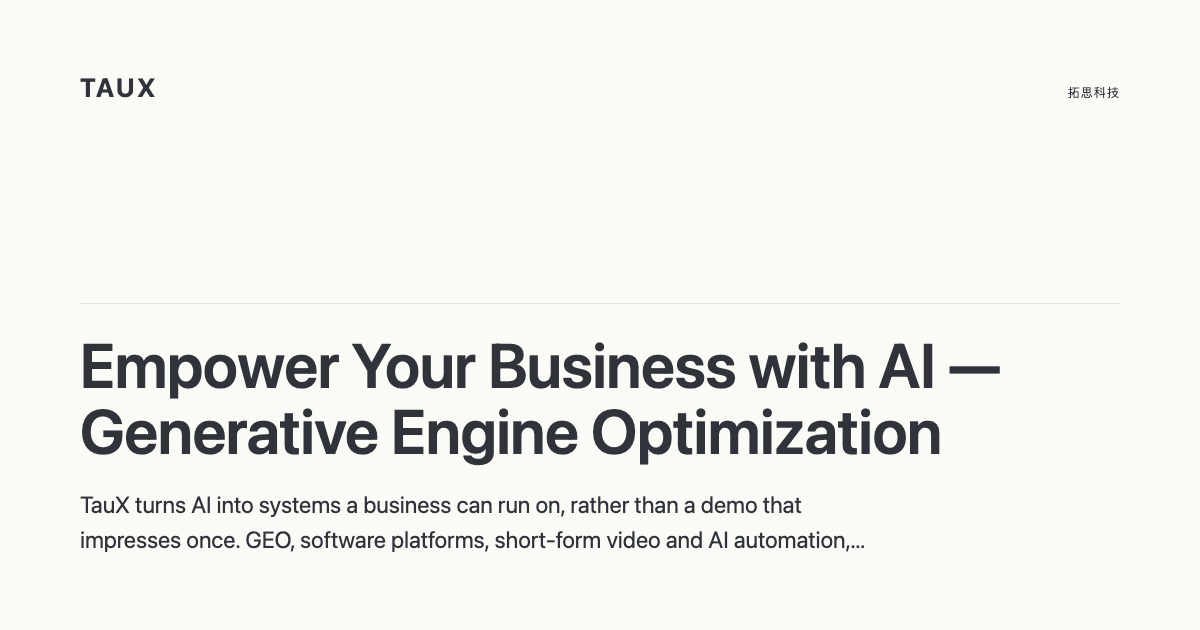
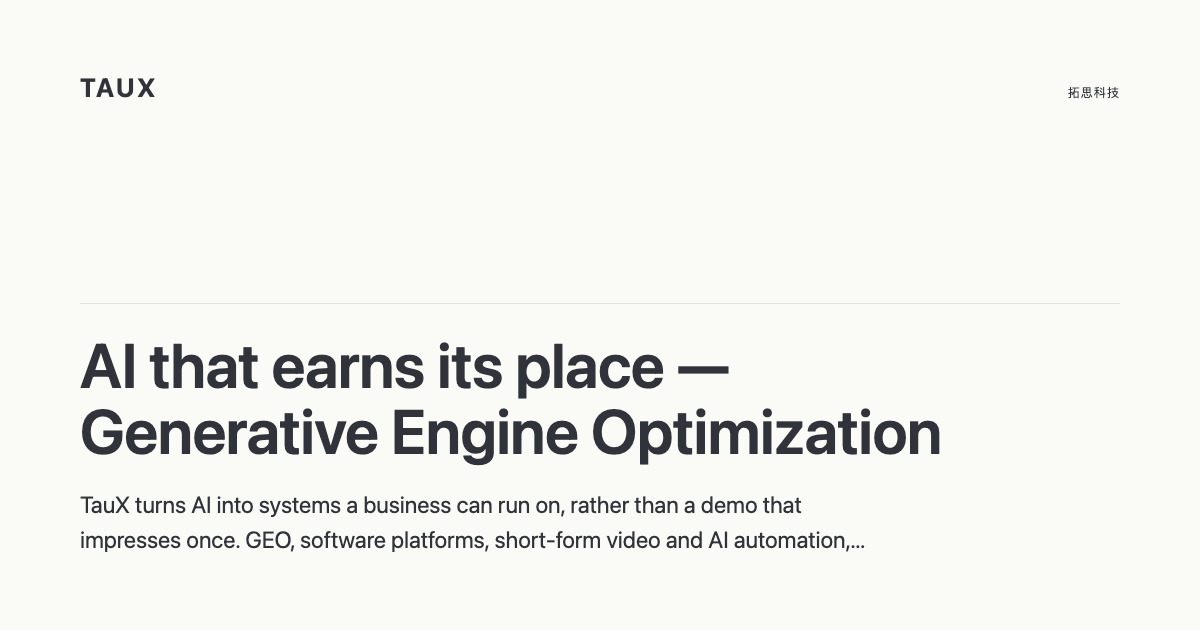
fix: 另外四個 locale 的語氣，以及 Empower 藏在三個地方
用各 locale 自己的標記詞掃過，23 處候選全部是真的違規——對比中文那輪 42 個裡
34 個誤報。差別在判準：中文那組含「最好／最快／首選」這種技術散文也會用的字，
這四組是純行銷詞彙。命中率從 19% 變成 100%。

分佈跟中文完全一致，集中在同樣四頁：

  en-US        3 處   about + index
  ja-JP        2 處   about
  ko-KR        2 處   about
  zh-Hans-CN  16 處   about + ai-smart-work + data-governance + index

技術指南頁 15 頁，四個 locale 加起來 0 處違規。規範那句「本站 15 頁是技術指南，
落在 factual／scientific 那一格」在五個 locale 上都成立，而它從來沒涵蓋另外五頁。

Empower 不只在 H1。清乾淨之後才發現它藏在三個地方：

  模板的 display-lead      8 處（五個 locale 的 index 與 about）
  JSON-LD 的 name          5 處（搜尋結果與 AI 引用看到的字串）
  site.toml 的 title       4 處（<title> 與 OG 卡的標題來源）

最後一項讓 100 張分享卡要重生。改 H1 而不改 site.toml，會讓頁面上的標題和分享
出去的標題是兩句不同的話。

en-US 的 about 與 index 正文本來就寫得好——「Our job is to move brands from
ranking in a list to being the answer」是具體主張不是宣言腔，「how long a system
takes to respond to a change and settle」是事實。只有標題要改。

zh-Hans-CN 是中文的逐字翻譯，連「任督二脈」都翻過去了，所以照中文定稿翻回來。

日韓的 about 標題「私たちの使命／우리의 사명」保留。中文版的對應標題是「核心
使命」，當時判斷標題不動——五個 locale 保持同一個決定。

⚠ 韓文 ledger 從 325 個引號變 323：改寫拿掉了 '답변 컨테이너' 那對引號。
   跑過 npm run ko:record 重記。

四個 locale 各截一張圖對讀過。

驗證：十二道閘門全綠，100 張卡重生後 cards 0 failing。

Claude-Session: https://claude.ai/code/session_01JUmS2Ks4Kz9V63H9wo6wv9

Changed region(s): [[0.0617, 0.5429, 0.8325, 0.6333]]

diff --git a/templates/zh-Hans-CN/about.html b/templates/zh-Hans-CN/about.html
@@ -45,11 +45,11 @@
                  measured width differs by machine and an unforced break lands
                  somewhere different on each. This line is shorter and fits on
                  one at every width the geometry gate walks. -->
-            <span class="display-lead">Empowering Business with AI</span>
-            <span class="display-sub">我们把 AI 变成企业真正的战力</span>
+            <span class="display-lead">A technology company in Kaohsiung</span>
+            <span class="display-sub">做 GEO 与企业 AI 导入的技术公司</span>
         </h1>
         <p class="text-xl max-w-[42ch] leading-relaxed mb-6">
-            TauX 拓思科技专注于 GEO (生成式引擎优化) 与 AI 智能解决方案。我们结合高雄在地的深厚根基与国际级的技术视野，协助企业在 AI 时代抢占先机。
+            TauX 拓思科技做 GEO（生成式引擎优化）与企业 AI 导入，公司设在高雄冈山。
         </p>
         <p class="text-sm max-w-[42ch] leading-relaxed font-sans">
             我们的名字源自希腊字母 <strong class="font-sans">τ</strong>（Tau，在控制科学与物理学中代表<strong>时间常数 Time Constant</strong>，表征系统响应外界变化并过渡至全新稳定状态的关键时间）。TauX 致力于优化企业迎战 AI 浪潮的「时间常数」，加速系统性的智能跃迁。
@@ -69,7 +69,7 @@
                 </h2>
                 </div>
                 <p class="leading-relaxed">
-                    在 Generative AI 重塑网络流量的时代，我们的使命是协助品牌从传统 SEO 转型至 GEO。透过独家的「答案容器」技术，让您的内容被 AI 优先读取与引用。
+                    生成式引擎不回传一份链接清单，它回传一段答案。要成为那段答案的来源，和排进十条蓝色链接是两件不同的工作。
                 </p>
             </div>
             <div class="border-t border-line pt-8">
@@ -80,7 +80,7 @@
                 </h2>
                 </div>
                 <p class="leading-relaxed">
-                    我们采用 Go (Golang) 构建高性能后端，并以现代化前端技术打造极致的用户体验。从数据治理到自动化 Agent，我们提供全方位的技术后盾。
+                    后端写 Go，前端不套框架的预设样式。做的范围从数据治理到自动化 agent。
                 </p>
             </div>
         </div>

diff --git a/templates/zh-Hans-CN/index.html b/templates/zh-Hans-CN/index.html
@@ -11,7 +11,7 @@
     {
       "@type": "WebPage",
       "@id": "https://taux.io/zh-Hans-CN#webpage",
-      "name": "拓思科技股份有限公司｜TauX - Empower Your Business with AI｜GEO 生成式引擎优化",
+      "name": "拓思科技股份有限公司｜TauX - AI that earns its place｜GEO 生成式引擎优化",
       "description": "TauX 协助企业把 AI 变成能用的系统，而不是一场展示，提供 GEO 生成式引擎优化与技术开发服务。",
       "url": "https://taux.io/zh-Hans-CN",
       "isPartOf": {"@id": "https://taux.io/#website"},
@@ -36,7 +36,7 @@
                  unforced break lands in a different place on each. Breaking
                  before "with AI" also puts the only content word in the
                  sentence on a line of its own. -->
-            <span class="display-lead">Empower Your Business<br>with AI</span>
+            <span class="display-lead">AI that earns<br>its place</span>
             <span class="display-sub">把 AI 变成公司真正用得上的能力</span>
         </h1>
 
@@ -47,7 +47,7 @@
             </p>
 
             <p class="text-sm leading-relaxed max-w-prose" itemprop="description">
-                我们的名字源自希腊字母 <span class="font-sans">&tau;</span>（Tau，在物理学与控制工程中代表<strong class="font-normal">时间常数 Time Constant</strong>，象征系统对外部变革的响应速度与回归稳定的效率）。TauX 致力于协助企业优化其面对 AI 浪潮的时间常数，以最敏捷、沉稳的姿态完成数智化跃迁。
+                我们的名字源自希腊字母 <span class="font-sans">&tau;</span>（Tau，在物理学与控制工程中代表<strong class="font-normal">时间常数 Time Constant</strong>，象征系统对外部变革的响应速度与回归稳定的效率）。导入 AI 也有这个常数，而缩短它就是我们在做的事。
             </p>
         </div>
 

diff --git a/templates/ja-JP/about.html b/templates/ja-JP/about.html
@@ -45,7 +45,7 @@
                  Chinese has no upper case; the same holds for Japanese, so
                  `heading structure` asks this locale for a `display-sub`
                  (decision #56). -->
-            <span class="display-lead">Empowering Business with AI</span>
+            <span class="display-lead">A technology company in Kaohsiung</span>
             <span class="display-sub">AI を、企業が本当に使える力に</span>
         </h1>
         <p class="text-xl max-w-[42ch] leading-relaxed mb-6">
@@ -69,7 +69,7 @@
                 </h2>
                 </div>
                 <p class="leading-relaxed">
-                    生成 AI がウェブの流入を組み替えつつある今、私たちの使命はブランドを従来の SEO から GEO へ移すことです。独自の「回答コンテナ」技術によって、御社のコンテンツが AI に優先して読まれ、引用されるようにします。
+                    生成エンジンはリンクの一覧を返しません。ひとつの答えを返します。その答えの出典になることと、青いリンク十本の中に並ぶことは、別の仕事です。
                 </p>
             </div>
             <div class="border-t border-line pt-8">

diff --git a/templates/ko-KR/about.html b/templates/ko-KR/about.html
@@ -43,7 +43,7 @@
             <!-- Hangul has no upper case either, so decision #6's reason for
                  the two-line h1 holds here as it does for the CJK locales and
                  not for English (decision #56). -->
-            <span class="display-lead">Empowering Business with AI</span>
+            <span class="display-lead">A technology company in Kaohsiung</span>
             <span class="display-sub">AI를 기업이 실제로 쓸 수 있는 힘으로</span>
         </h1>
         <p class="text-xl max-w-[42ch] leading-relaxed mb-6">
@@ -67,7 +67,7 @@
                 </h2>
                 </div>
                 <p class="leading-relaxed">
-                    생성형 AI가 웹 트래픽을 다시 짜고 있는 지금, 우리의 사명은 브랜드를 기존 SEO에서 GEO로 옮기는 것입니다. 자체 '답변 컨테이너' 기술로 귀사의 콘텐츠가 AI에 먼저 읽히고 인용되도록 만듭니다.
+                    생성형 엔진은 링크 목록을 돌려주지 않습니다. 하나의 답을 돌려줍니다. 그 답의 출처가 되는 일과, 파란 링크 열 개 안에 드는 일은 서로 다른 작업입니다.
                 </p>
             </div>
             <div class="border-t border-line pt-8">

diff --git a/templates/zh-Hans-CN/ai-smart-work.html b/templates/zh-Hans-CN/ai-smart-work.html
@@ -56,7 +56,7 @@
         </h1>
 
                 <p class="text-lg leading-relaxed max-w-prose mb-10">
-                    从「人工智能」进化到「数智化」思维。我们协助企业与个人打造专属的 AI 数智化助理 (Gem)，让 AI 不只是工具，而是你的最强大脑。
+                    这页讲的是问法，以及怎么把一组问法固定成一个可重复用的助理（Gem）。内训做的就是这件事。
                 </p>
 
                 <a href="mailto:hello@taux.io" class="btn">
@@ -249,7 +249,7 @@
                         <span class="display-sub">懂得问，AI才会答；懂得想，AI才能帮</span>
                     </h2>
                 </div>
-                <p class="text-lg mb-10 max-w-prose mx-auto">不要只是工作，要「数智化」你的工作。立即联系我们，构建您的 AI 竞争力。</p>
+                <p class="text-lg mb-10 max-w-prose mx-auto">同一个问题换个问法，答案的可用度差很多。想把它变成团队的共同做法，那是另一件事——可以聊。</p>
                 <a href="mailto:hello@taux.io" class="btn">
                     开始咨询
                 </a>

diff --git a/templates/ko-KR/index.html b/templates/ko-KR/index.html
@@ -11,7 +11,7 @@
     {
       "@type": "WebPage",
       "@id": "https://taux.io/ko-KR#webpage",
-      "name": "拓思科技股份有限公司｜TauX - Empower Your Business with AI｜GEO 생성형 엔진 최적화",
+      "name": "拓思科技股份有限公司｜TauX - AI that earns its place｜GEO 생성형 엔진 최적화",
       "description": "TauX는 AI를 한 번 보여 주는 데모가 아니라 기업이 실제로 굴릴 수 있는 시스템으로 바꿉니다. GEO 생성형 엔진 최적화와 기술 개발을 합니다.",
       "url": "https://taux.io/ko-KR",
       "isPartOf": {"@id": "https://taux.io/#website"},
@@ -36,7 +36,7 @@
                  unforced break lands in a different place on each. Breaking
                  before "with AI" also puts the only content word in the
                  sentence on a line of its own. -->
-            <span class="display-lead">Empower Your Business<br>with AI</span>
+            <span class="display-lead">AI that earns<br>its place</span>
             <span class="display-sub">AI를 회사가 진짜 쓸 수 있는 힘으로</span>
         </h1>
 

diff --git a/templates/ja-JP/index.html b/templates/ja-JP/index.html
@@ -11,7 +11,7 @@
     {
       "@type": "WebPage",
       "@id": "https://taux.io/ja-JP#webpage",
-      "name": "拓思科技股份有限公司｜TauX - Empower Your Business with AI｜GEO 生成エンジン最適化",
+      "name": "拓思科技股份有限公司｜TauX - AI that earns its place｜GEO 生成エンジン最適化",
       "description": "TauX は AI を、一度きりのデモではなく企業が実際に運用できるシステムに変えます。GEO 生成エンジン最適化と技術開発を手がけています。",
       "url": "https://taux.io/ja-JP",
       "isPartOf": {"@id": "https://taux.io/#website"},
@@ -36,7 +36,7 @@
                  unforced break lands in a different place on each. Breaking
                  before "with AI" also puts the only content word in the
                  sentence on a line of its own. -->
-            <span class="display-lead">Empower Your Business<br>with AI</span>
+            <span class="display-lead">AI that earns<br>its place</span>
             <span class="display-sub">AI を、会社が本当に使える力に</span>
         </h1>
 

diff --git a/templates/en-US/index.html b/templates/en-US/index.html
@@ -11,7 +11,7 @@
     {
       "@type": "WebPage",
       "@id": "https://taux.io/en-US#webpage",
-      "name": "TauX — Empower Your Business with AI | Generative Engine Optimization",
+      "name": "TauX — AI that earns its place | Generative Engine Optimization",
       "description": "TauX turns AI into systems a business can actually run on, rather than a demo. Generative Engine Optimization and engineering services, from Kaohsiung, Taiwan.",
       "url": "https://taux.io/en-US",
       "isPartOf": {"@id": "https://taux.io/#website"},
@@ -40,7 +40,7 @@
                  unforced break lands in a different place on each. Breaking
                  before "with AI" also puts the only content word in the
                  sentence on a line of its own. -->
-            <span class="display-lead">Empower Your Business<br>with AI</span>
+            <span class="display-lead">AI that earns<br>its place</span>
         </h1>
 
         <div class="max-w-[42ch]" itemscope itemtype="https://schema.org/Organization">

diff --git a/templates/zh-Hans-CN/data-governance.html b/templates/zh-Hans-CN/data-governance.html
@@ -162,7 +162,7 @@
                         <span class="display-sub">准备好启动数据治理了吗？</span>
                     </h2>
                     </div>
-                    <p class="mb-10 max-w-prose mx-auto text-lg">让 TauX 协助您打通数据任督二脉，为企业 AI 转型奠定坚实基础。</p>
+                    <p class="mb-10 max-w-prose mx-auto text-lg">AI 导入卡住的地方通常不是模型，是数据——放在哪、谁在用、能不能信。可以先聊聊你现在的状况。</p>
 
                     <a href="mailto:hello@taux.io" class="btn">
                         预约咨询

diff --git a/templates/en-US/about.html b/templates/en-US/about.html
@@ -40,7 +40,7 @@
         <!-- Hero -->
         <span class="tag mb-4 inline-block">Who Builds This</span>
         <h1 class="mb-6">
-            <span class="display-lead">Empowering Business with AI</span>
+            <span class="display-lead">A technology company in Kaohsiung</span>
         </h1>
         <p class="text-xl max-w-[42ch] leading-relaxed mb-6">
             TauX builds GEO — Generative Engine Optimization — and the AI systems around it. We work from Kaohsiung, close to the manufacturers and operators we build for, and we ship to a standard that holds up anywhere.

diff --git a/templates/index.html b/templates/index.html
@@ -11,7 +11,7 @@
     {
       "@type": "WebPage",
       "@id": "https://taux.io/zh-Hant-TW#webpage",
-      "name": "拓思科技股份有限公司｜TauX - Empower Your Business with AI｜GEO 生成式引擎優化",
+      "name": "拓思科技股份有限公司｜TauX - AI that earns its place｜GEO 生成式引擎優化",
       "description": "TauX 協助企業把 AI 變成能用的系統，而不是一場展示，提供 GEO 生成式引擎優化與技術開發服務。",
       "url": "https://taux.io/zh-Hant-TW",
       "isPartOf": {"@id": "https://taux.io/#website"},
